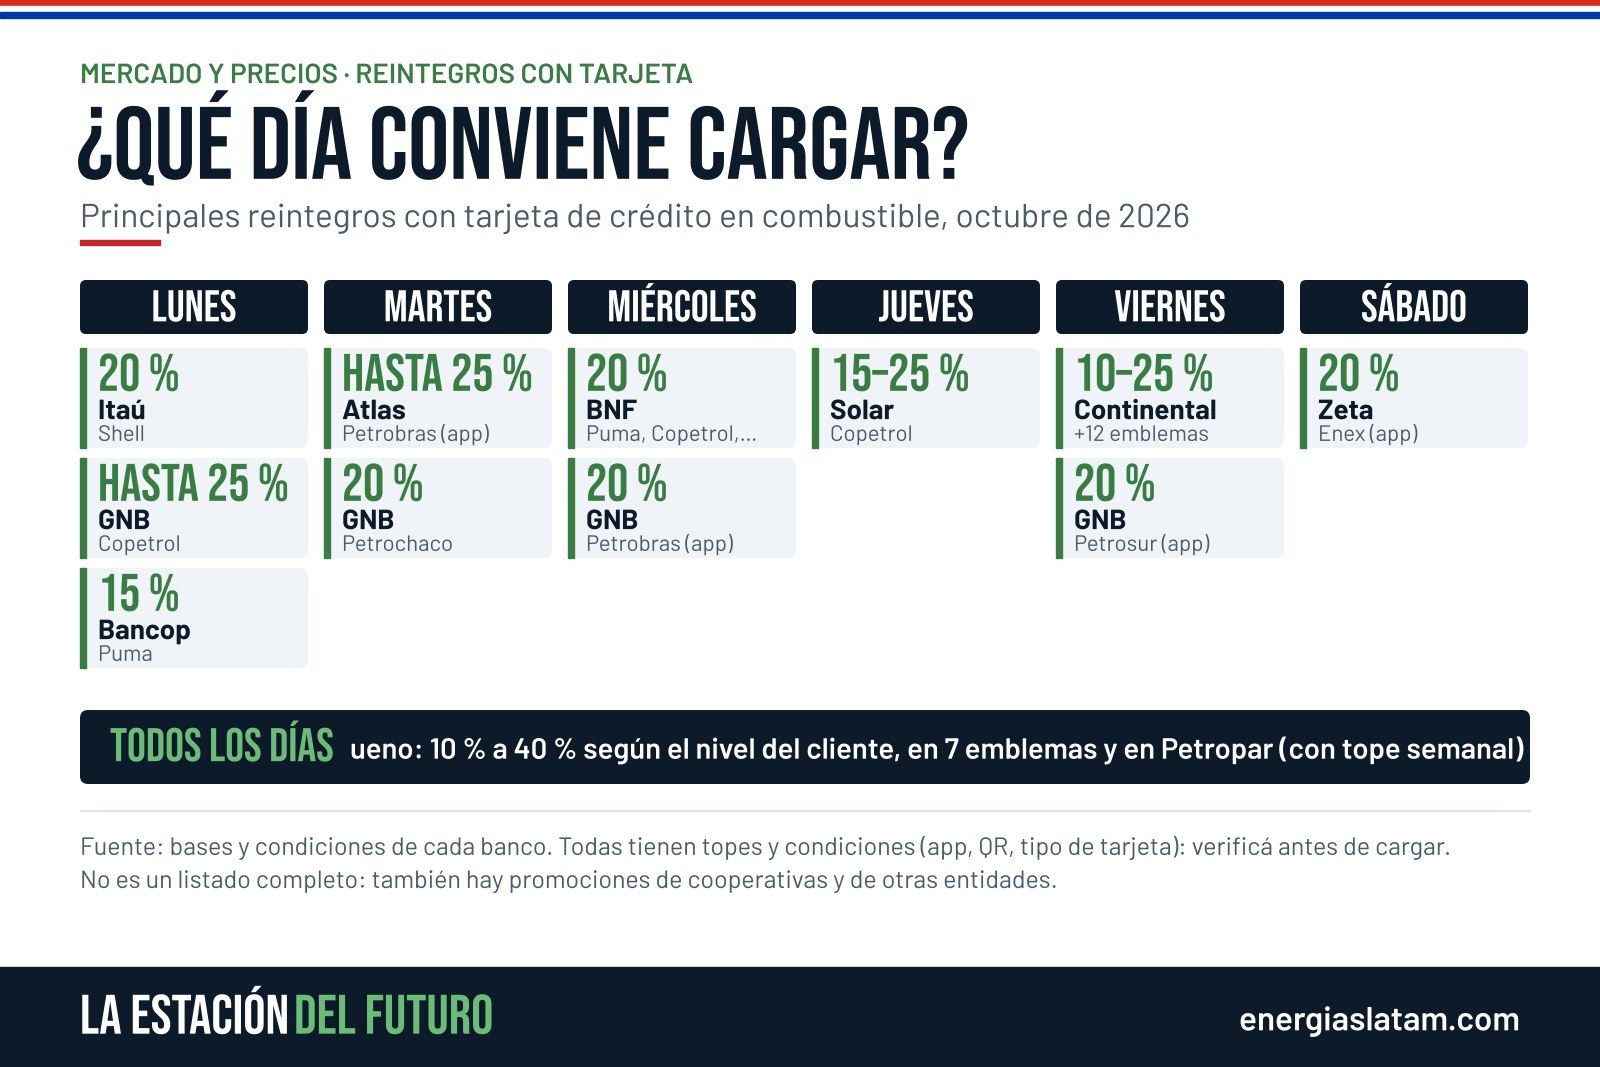
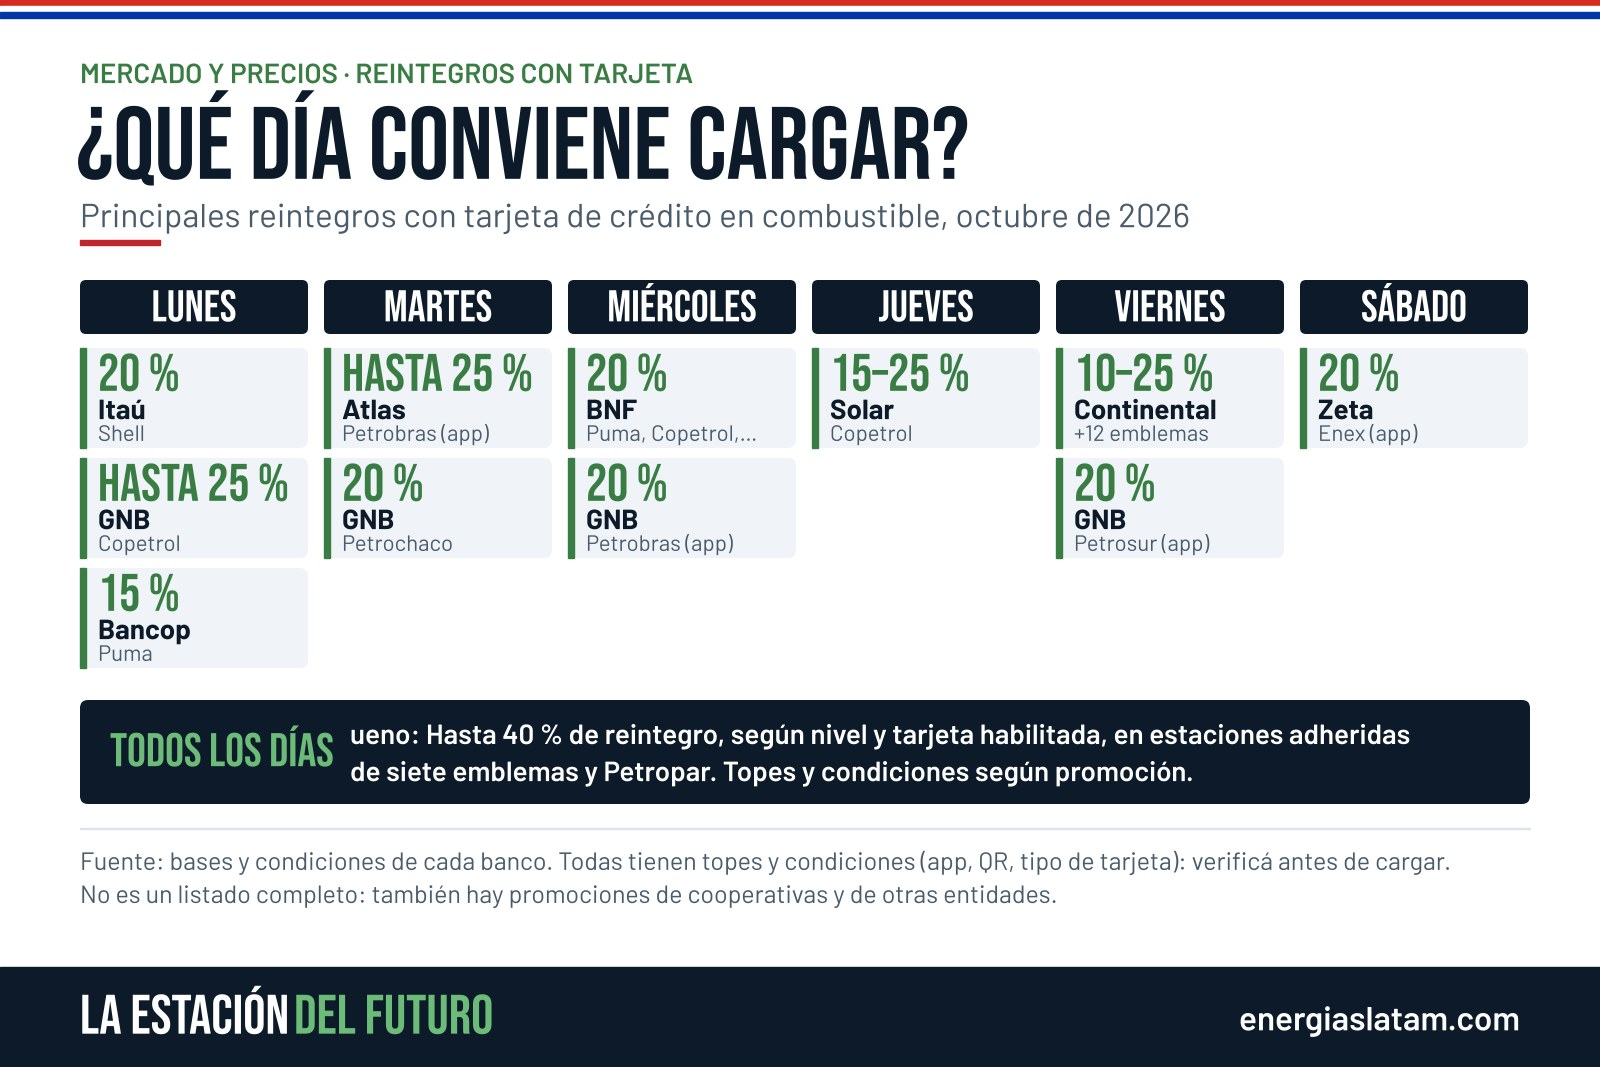
Borrador corregido: ueno separado en beneficio general y Petropar
Claude-Session: https://claude.ai/code/session_01HHGRFrapr8AXyd2C4Baz1m

Changed region(s): [[0.0312, 0.6495, 0.9688, 0.866]]

diff --git a/notas/2026-10-27-descuentos-tarjetas-combustible.html b/notas/2026-10-27-descuentos-tarjetas-combustible.html
@@ -1,10 +1,13 @@
 <figure><img src="img/2026-10-27-descuentos-tarjetas-combustible-1.jpg" alt="Calendario semanal de reintegros con tarjeta para cargar combustible en Paraguay, por día y emblema"><figcaption>Los principales reintegros con tarjeta para cargar combustible, día por día, según las bases publicadas por cada entidad para octubre de 2026.</figcaption></figure>
 <p>Con la sexta suba del año, el diésel común de los emblemas privados quedó en torno a G. 9.490 por litro y el premium en G. 11.490. Petropar todavía no movió sus precios: el Diésel Porã sigue en G. 8.785 y el Mbarete en G. 10.795. Las naftas no cambiaron en esta ronda. Pero el precio del tótem es cada vez menos el precio que paga el cliente: entre reintegros con tarjeta, apps de los emblemas y días fijos de descuento, el que planifica dónde y cuándo carga puede pagar bastante menos.</p>
 <h2>El calendario del descuento</h2>
-<p>Casi cada día tiene su promoción. Los lunes, Itaú da 20 % en Shell y Banco GNB hasta 25 % en Copetrol. Los martes, Banco Atlas devuelve hasta 25 % en Petrobras desde la app Premmia. Los miércoles, el BNF da 20 % con Visa de crédito en Puma, Copetrol, Petrochaco, Compasa y 3MG. Los jueves, Solar Banco ofrece entre 15 % y 25 % en Copetrol. El viernes es el día más cargado: Banco Continental tiene reintegros de 10 % a 25 % en más de una docena de emblemas. Los sábados, Zeta Banco da 20 % en Enex desde su app. Y ueno funciona todos los días en siete emblemas, con 10 % a 40 % según el nivel del cliente.</p>
+<p>Casi cada día tiene su promoción. Los lunes, Itaú da 20 % en Shell y Banco GNB hasta 25 % en Copetrol. Los martes, Banco Atlas devuelve hasta 25 % en Petrobras desde la app Premmia. Los miércoles, el BNF da 20 % con Visa de crédito en Puma, Copetrol, Petrochaco, Compasa y 3MG. Los jueves, Solar Banco ofrece entre 15 % y 25 % en Copetrol. El viernes es el día más cargado: Banco Continental tiene reintegros de 10 % a 25 % en más de una docena de emblemas. Los sábados, Zeta Banco da 20 % en Enex desde su app. Y ueno tiene beneficios todos los días, con dos esquemas distintos.</p>
+<h2>ueno: dos beneficios, condiciones distintas</h2>
+<p><b>Beneficio general de combustibles.</b> Aplica en estaciones adheridas de siete emblemas: Petrobras (pagando desde la app Premmia), Copetrol (incluida la app Copetrol Vamos), Enex (incluida Mi App Enex), Petrochaco, 3MG, Puma (solo por la red Upay) y Petromax. Es para tarjetas de crédito ueno y el reintegro depende del nivel del cliente, que se ve en la sección Beneficios de la app. Según las bases, los topes son semanales: nivel 1, 10 % con compras de hasta G. 25.000 (reintegro máximo de G. 2.500); nivel 2, 15 % hasta G. 50.000 (G. 7.500); nivel 3, 25 % hasta G. 75.000 (G. 18.750); nivel 4, 30 % hasta G. 125.000 (G. 37.500), y nivel 5, 40 % hasta G. 150.000 (G. 60.000). [A VERIFICAR: niveles y topes tomados de las bases de septiembre; confirmar con las de octubre].</p>
+<p><b>Beneficio en Petropar.</b> Es una promoción aparte, con sus propias condiciones. Para octubre, la pantalla del beneficio muestra 40 % de reintegro con tarjetas Crédito y Crédito Black, vigencia del 1 al 31 de octubre, compras por la red Upay, un tope de compra de G. 600.000 y un reintegro máximo de G. 240.000. No es un tope semanal ni aplica igual a todos los usuarios: cada cliente debe revisar en la app qué le corresponde.</p>
 <p>La letra chica importa: casi todas tienen límite de compra semanal o mensual, varias exigen pagar desde la app del emblema o con QR y muchas excluyen débito, tarjetas empresariales o prepagas.</p>
 <h2>Cuánto se ahorra de verdad</h2>
-<p>Un ejemplo: 50 litros de diésel común a G. 9.490 cuestan G. 474.500. Con un 20 % de reintegro y un límite de compra de G. 500.000, vuelven G. 94.900 y el litro termina saliendo unos G. 7.590, por debajo del Diésel Porã de Petropar. Con el nivel más alto de ueno, el reintegro es de 40 %, pero el tope semanal de G. 60.000 deja el litro efectivo en unos G. 8.290. Para quien carga mucho, el tope pesa más que el porcentaje.</p>
+<p>Un ejemplo: 50 litros de diésel común a G. 9.490 cuestan G. 474.500. Con un 20 % de reintegro y un límite de compra de G. 500.000, vuelven G. 94.900 y el litro termina saliendo unos G. 7.590, por debajo del Diésel Porã de Petropar. En el beneficio general de ueno, el nivel 5 devuelve 40 %, pero con un tope de compra de G. 150.000 por semana el reintegro llega a G. 60.000 y el litro de esos 50 queda en unos G. 8.290. Para quien carga mucho, el tope pesa más que el porcentaje.</p>
 <h2>El dólar, el otro factor</h2>
 <p>El combustible se compra afuera y se paga en dólares, por eso el tipo de cambio juega a favor o en contra de cada suba. Durante varias semanas, el dólar osciló cerca de G. 5.700 y llegó a su nivel más bajo del año; el lunes 26 rebotó y quedó cerca de G. 6.000. El presidente Santiago Peña descartó que el Banco Central intervenga para frenar la caída: "el mercado va a encontrar su punto de equilibrio", dijo. La encuesta de expectativas del BCP proyecta G. 5.905 para fin de año.</p>
 <p>Según Petropar, el diésel internacional cotiza en torno a US$ 1.273 por metro cúbico. A ese precio, cada G. 100 que se mueve el dólar cambia el costo del producto en unos G. 127 por litro, antes de impuestos, flete y margen. Un dólar más barato amortiguó parte de la suba internacional, pero no alcanzó para frenarla.</p>
